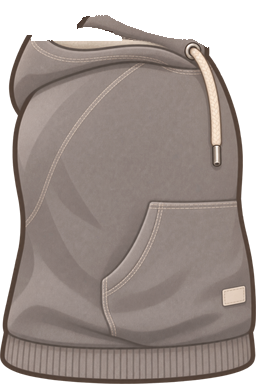
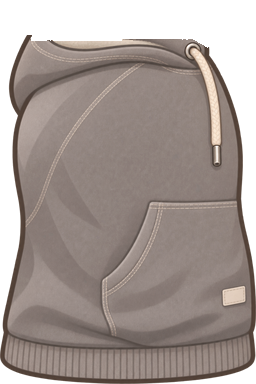
fix: 판정 round5 달리기 엉덩이 색 맞춤을 되돌리고 등 쪽 깎기를 곡선으로, hoodie 후드 꼭대기 뿔을 지운다 [S15P31A207-300]
- round5 회귀: 엉덩이 잇기 조각을 다리 뒤쪽 평균 색으로 맞추자 그늘이 사라져 모든 반바지에 평평한 사각 블록이 생겼다. 원래 텍스처를
  그대로 옮기는 round4 조각으로 되돌린다.
- 등 쪽 깎기 경계를 곧은 세로선 대신 위(높이 -0.2)에서 등 끝으로 물러나 아래(0.5)에서 -0.35까지 들어오는 곡선으로 한다(「ㄱ」자 홈).
- hoodie 달리기 목 「ㅅ」자 획: 달리기 표지 색 렌더로 상의 몸통 텍스처(후드 꼭대기 날개 x 76~200, y 15~40)에서 온 것을 확인하고
  손 마스크(templates/fixes)로 날개를 지운다.

Changed region(s): [[0.2812, 0.0312, 0.6562, 0.125]]

diff --git a/android/core/avatar/tools/outfit-pipeline/outfit_pipeline/hip.py b/android/core/avatar/tools/outfit-pipeline/outfit_pipeline/hip.py
@@ -24,7 +24,6 @@ IMAGE_NAME = "Cloth textured hip connection"
 SOURCE = (88, 160, 168, 208)  # 원래 메시가 쓰던 텍스처 칸(x0, y0, x1, y1)
 TARGET_TOP = 24  # 옮길 칸 위 끝(텍스처 y). 아래 끝은 TARGET_TOP + 48
 HEIGHT = 768
-TONE_BOX = (20, 140, 70, 250)  # 엉덩이 조각 색을 맞출 다리 윗부분 뒤쪽 천 칸(x0, y0, x1, y1)
 V_SHIFT = (SOURCE[1] - TARGET_TOP) / HEIGHT  # 꼭짓점 v에서 뺄 값(160 → 24)
 _TOC_FORMAT = ("u", "s", "f", "c")
 
@@ -125,16 +124,6 @@ def paint_hip(layer: Image.Image) -> Image.Image:
     patch = array[y0:y1, x0:x1].copy()
     if not (patch[..., 3] > 0).any():
         return layer
-    # 엉덩이 잇기 조각은 천 가운데라 다리 윗부분 뒤쪽보다 밝아 밝은 슬래브로 보였다(판정 round4 wide_pants): 다리 윗부분 뒤쪽 천의
-    # 평균 색에 맞춰 옮긴다(무늬·그늘 차이는 그대로)
-    tx0, ty0, tx1, ty1 = TONE_BOX
-    back = array[ty0:ty1, tx0:tx1]
-    cloth = back[..., 3] >= 250
-    opaque = patch[..., 3] >= 250
-    if cloth.sum() > 100 and opaque.sum() > 100:
-        shift = back[cloth][:, :3].astype(float).mean(axis=0) - patch[opaque][:, :3].astype(float).mean(axis=0)
-        patch = patch.copy()
-        patch[..., :3] = (patch[..., :3].astype(float) + shift).round().clip(0, 255).astype(np.uint8)
     array[TARGET_TOP : TARGET_TOP + (y1 - y0), x0:x1] = patch
     return Image.fromarray(array, "RGBA")
 
@@ -272,6 +261,8 @@ def finish_run_leg(layer: Image.Image, body: Image.Image | None) -> Image.Image:
 
 
 CARVE = 0.42  # 엉덩이 잇기 타원의 등 아래 사분면에서 (x/rx)²+(y/ry)²가 이보다 크면 깎는다(화면 블록의 등 아래 모서리)
+CARVE_TOP = -0.2  # 이 높이(-1 위 끝 ~ 1 아래 끝)부터 등 쪽 깎기가 시작된다
+CARVE_FULL = 0.5  # 이 높이 아래에서는 [CARVE_BACK]까지 깎는다
 CARVE_BACK = -0.35  # 타원 가로 위치(-1 등 끝 ~ 1 앞 끝)가 이보다 등 쪽이면 깎는다(화면 블록의 곧은 뒷면·뒤 허리 모서리)
 
 
@@ -289,6 +280,9 @@ def carve_hip(layer: Image.Image) -> Image.Image:
     yy, xx = np.mgrid[0:height, 0 : x1 - x0]
     nx = (xx - (x1 - x0 - 1) / 2) / ((x1 - x0) / 2)
     ny = (yy - (height - 1) / 2) / (height / 2)
-    # 맨 위 띠(ny < -0.5)는 남긴다: 등 쪽 위까지 깎으면 상의 밑단과 다리 사이에 배경 삼각형이 뚫렸다
-    region[((nx < CARVE_BACK) & (ny > -0.5)) | ((nx < 0) & (ny > 0) & (nx * nx + ny * ny > CARVE))] = 0
+    # 깎는 경계는 위로 갈수록 등 끝(-1)으로 부드럽게 물러나는 곡선이다: 맨 위까지 깎으면 상의 밑단과 다리 사이에 배경 삼각형이
+    # 뚫렸고, 곧은 세로선으로 깎다 위에서 멈추면 「ㄱ」자 홈이 생겼다(판정 round4)
+    t = np.clip((ny - CARVE_TOP) / (CARVE_FULL - CARVE_TOP), 0, 1)
+    boundary = -1 + (CARVE_BACK + 1) * (1 - (1 - t) ** 2)
+    region[(nx < boundary) | ((nx < 0) & (ny > 0) & (nx * nx + ny * ny > CARVE))] = 0
     return Image.fromarray(array, "RGBA")

diff --git a/android/core/avatar/tools/outfit-pipeline/outfit_pipeline/run.py b/android/core/avatar/tools/outfit-pipeline/outfit_pipeline/run.py
@@ -143,7 +143,8 @@ FIXES = Path(__file__).resolve().parent.parent / "templates" / "fixes"
 
 def apply_fix_mask(layer: Image.Image, key: str, file_stem: str) -> Image.Image:
     """손으로 정한 지울 칸(`templates/fixes/<key>__<file_stem>.png`, 흰색 = 지움)을 투명하게 한다. 자동 판별로 외곽선과 가르기 어려운
-    생성 잔상만 둔다(판정 round4: high_top 달리기 신발 끈 옆 검은 계단 그림자). 파일이 없으면 그대로."""
+    생성 잔상만 둔다(판정 round4: high_top 달리기 신발 끈 옆 검은 계단 그림자, round5: hoodie 달리기 몸통 후드
+    꼭대기 날개가 목 옆에 「ㅅ」자 뿔로 솟았다). 파일이 없으면 그대로."""
     path = FIXES / f"{key}__{file_stem}.png"
     if not path.is_file():
         return layer
@@ -157,7 +158,7 @@ def finish_run_layer(layer: Image.Image, key: str, part: str, slot: str, leg: Im
     """달리기 상의·하의 레이어 마무리(판정 round3): 상의 몸통·팔은 떨어진 조각을 지우고 몸통은 등 외곽선, 하의 다리는 허리끈 끝을 정리한
     뒤 맨몸 다리 외곽선을 다시 입힌다([leg] = 맨몸 달리기 다리, outfit_pipeline.hip.finish_run_leg)."""
     if part == "TOP" and slot in ("run_body", "run_arm"):
-        layer, _ = drop_loose_pieces(layer)
+        layer, _ = drop_loose_pieces(apply_fix_mask(layer, key, f"female_{slot}"))
         if slot == "run_body":
             layer, _ = outline_back(layer, key)
             if key in BACK_KEYS:

diff --git a/android/core/avatar/OUTFIT_SPEC.md b/android/core/avatar/OUTFIT_SPEC.md
@@ -55,8 +55,8 @@ riv 네 파일(`res/raw`, 승인본 SHA 고정, 읽기만)의 아트보드는 80
 | 민소매 몸통 옆 맨살 (판정 round4) | 표지 색 렌더(텍셀마다 (층, x, y)를 색으로 그려 렌더 픽셀의 출처를 읽음)로 singlet 밑단 옆 짧은 짙은 획과 밝은 점이 맨몸 아틀라스 x 100~124·376~392, y 256~295의 몸통 옆 외곽선과 그 안쪽 맨살 띠, 밑단과 하의 허리 사이 맨살임을 확인했다. singlet 서기 레이어는 행마다(y 200~295) 상의 옆 가장자리 바깥의 맨살(몸통 옆 외곽선 앞까지 6px 이하)을 상의 천 색으로, 밑단 아래 하의 허리(y 296)까지의 맨몸(빈 곳에서 4px 안의 몸통 옆 외곽선 제외)을 그 옆 칸 밝은 천 가운데값으로 덮는다(`stand_fix.close_side_skin`, `stand-fix`) |
 | 반팔·민소매 몸통 옆 외곽선 (판정 round3) | 반팔·민소매(`maleTopSurface` 1) 서기 레이어는 소매 끝 아래 몸통 옆(y 185~301) 행마다 바깥에서 처음 만나는 상의 가장자리 6px 안에서, 안쪽 짙은 옆 외곽선(밝기 110 미만)보다 바깥에 박힌 밝은 천 점(외곽선보다 60 넘게 밝음)이 없다. 체형 100에서 몸통 옆이 늘면 짙은 외곽선 사이 흰 점이 사다리 획으로 보였다(base s100 겨드랑이 아래). `stand-fix`가 그 외곽선 색으로 칠한다(`stand_fix.solid_side_outline`) |
 | 남자 서기 긴소매 이음매 (판정 round3) | 남자 서기 riv의 긴소매 메시(Image 「Long sleeve wardrobe top」)는 팔 띠와 몸통 띠가 이음매 열에 같은 (u, v)·무게의 꼭짓점을 따로 둔다. 겨드랑이 아래(v 0.26~0.35) 몸통 쪽 꼭짓점이 0.1~1.2 단위 안쪽에 있어(바탕 자세와 체형 애니메이션 x 키) 소매와 몸통 사이로 배경이 가는 세로 줄로 비쳤다. 앱은 읽은 riv 바이트에서 몸통 쪽 값(float32 100개)을 짝인 팔 쪽 값으로 바꾼다(`RivSleeveSeam`, 파일은 승인본 그대로, 표는 `outfit_pipeline/seam.py`의 `copy_pairs`). 반팔·민소매 표면 메시(「Existing wardrobe top」)는 몸통 띠 바깥 끝이 팔 띠 안쪽 끝과 바탕 자세에서 0.5~1 단위 겹치는데, 체형 x 키(medium·fuller)에서 오른쪽 아래 행의 겹침이 0 아래로 줄어 base·singlet 남자 체형 100 겨드랑이 아래에 가는 틈이 생겼다. 겹침이 바탕보다 줄어든 키 24개만 팔 쪽 키 + 바탕 겹침으로 바꾼다(`OVERLAP_TARGETS`, `seam.overlap_patch`). 판정 렌더는 Rive 원본에서 같은 값을 바꾼다(`close_seam_rml`, `keep_overlap_rml`) |
-| 달리기 엉덩이 잇기·다리 실루엣 (판정 round1~3 C) | 달리기 riv의 Image 「Cloth textured hip connection」(타원 메시)은 run_leg 텍스처 가운데 조각(x 88~168, y 160~208)을 써서 엉덩이 뒷면에 외곽선이 없었고 같은 칸을 앞 다리 메시도 허벅지에 쓴다. 앱은 읽은 riv 바이트에서 그 꼭짓점 v만 136/768만큼 위로 옮겨(`RivHipConnection`, 파일은 승인본 그대로) 다리 메시가 화면에 쓰지 않는 칸(y 24~72)을 쓰게 하고, 판정 렌더는 Rive 원본의 같은 꼭짓점을 옮긴다(`retarget_rml`). 다리 메시는 맨몸 다리 실루엣 모양이라(16x16 칸과 픽셀 좌표 부호 렌더로 실측: 텍스처 행마다 화면 뒷면 경계가 맨몸 다리 왼쪽 끝과 같다) 하의가 맨몸 다리보다 넓은 곳은 화면에 나오지 않는다. 그래서 하의·맨몸 달리기 다리 레이어(`hip.finish_run_leg`)는 (1) 엉덩이 잇기 칸에 원래 조각을 다리 윗부분 뒤쪽 천(x 20~69, y 140~249) 평균 색에 맞춰 옮기고(밝은 슬래브), 타원의 등 쪽(가로 위치 -0.35보다 등 쪽, 맨 위 띠 제외)과 등 아래 사분면 바깥((x/rx)²+(y/ry)² > 0.42)을 투명하게 깎으며 외곽선은 그리지 않고(옷 안쪽 호·짙은 쐐기로 떠 보였다, round4), 다리 윗부분(y 90~279)에서 맨몸이 하의 뒤로 비치는 곳은 하의 색으로 덮고(leggings 회색 덧조각), (2) 다리 텍스처 y 170~265의 뒷면을 x 2→12 사분 타원 곡선으로 깎아(곧은 뒷면이 y 264에서 10px 꺾이던 모서리) 새 가장자리 5px을 맨몸 외곽선 색으로 칠하고, (3) 하의는 맨몸 다리 외곽선(실루엣 가장자리 7px 안 짙은 픽셀) 위 하의 픽셀을 그 외곽선 색으로 바꾼다(wide·jogger 외곽선, leggings 무릎 비침). 16번 구멍 검사는 엉덩이 잇기 칸을, 17번 달리기 다리 외곽선 기준은 그 칸과 깎은 뒷면(y 170~265, x < 24)을 뺀다 |
-| 달리기 상의·하의 마무리 (판정 round3) | 달리기 상의 몸통·팔 레이어에는 본체와 떨어진 1000px 미만 덩어리가 없다(맨몸 팔 외곽선 조각이 singlet 어깨 뒤 곡선, hoodie 목 곡선으로 떠 보였다). hoodie 달리기 몸통은 행마다 등 쪽 첫 4px 가운데 밝은 곳을 짙은 갈색으로 칠한다(등판 외곽선이 옅었다. 달리기 몸통 메시는 옷 가장자리까지 보인다). jogger 달리기 다리는 허리끈 끝(x 0~29, y 95~154)의 끈·금속 픽셀을 이웃 천 색으로 바꾼다(엉덩이 뒤 짙은 점). `outfit_pipeline/run.py`. hoodie는 달리기 몸통 위 45행의 가는 끝(후드 꼭대기 「ㅅ」자 획)을 지우고 달리기 팔 가장자리 4px에 외곽선을 칠하며 그 안쪽 14px의 밝은 줄을 천 가운데값 쪽으로 누른다. 자동 판별로 외곽선과 가르기 어려운 생성 잔상은 손으로 정한 마스크(`templates/fixes/<key>__<파일>.png`, 흰색 = 지움)로 지운다(high_top 달리기 신발 끈 옆 검은 계단) |
+| 달리기 엉덩이 잇기·다리 실루엣 (판정 round1~3 C) | 달리기 riv의 Image 「Cloth textured hip connection」(타원 메시)은 run_leg 텍스처 가운데 조각(x 88~168, y 160~208)을 써서 엉덩이 뒷면에 외곽선이 없었고 같은 칸을 앞 다리 메시도 허벅지에 쓴다. 앱은 읽은 riv 바이트에서 그 꼭짓점 v만 136/768만큼 위로 옮겨(`RivHipConnection`, 파일은 승인본 그대로) 다리 메시가 화면에 쓰지 않는 칸(y 24~72)을 쓰게 하고, 판정 렌더는 Rive 원본의 같은 꼭짓점을 옮긴다(`retarget_rml`). 다리 메시는 맨몸 다리 실루엣 모양이라(16x16 칸과 픽셀 좌표 부호 렌더로 실측: 텍스처 행마다 화면 뒷면 경계가 맨몸 다리 왼쪽 끝과 같다) 하의가 맨몸 다리보다 넓은 곳은 화면에 나오지 않는다. 그래서 하의·맨몸 달리기 다리 레이어(`hip.finish_run_leg`)는 (1) 엉덩이 잇기 칸에 원래 조각을 그대로 옮기고(평균 색으로 맞추면 그늘이 사라져 모든 반바지에 평평한 사각 블록이 생겼다, round5), 타원의 등 쪽(높이 -0.2부터 0.5까지 등 끝에서 가로 위치 -0.35로 부드럽게 들어오는 곡선보다 등 쪽, 곧은 세로선으로 깎으면 「ㄱ」자 홈이 생겼다)과 등 아래 사분면 바깥((x/rx)²+(y/ry)² > 0.42)을 투명하게 깎으며 외곽선은 그리지 않고(옷 안쪽 호·짙은 쐐기로 떠 보였다, round4), 다리 윗부분(y 90~279)에서 맨몸이 하의 뒤로 비치는 곳은 하의 색으로 덮고(leggings 회색 덧조각), (2) 다리 텍스처 y 170~265의 뒷면을 x 2→12 사분 타원 곡선으로 깎아(곧은 뒷면이 y 264에서 10px 꺾이던 모서리) 새 가장자리 5px을 맨몸 외곽선 색으로 칠하고, (3) 하의는 맨몸 다리 외곽선(실루엣 가장자리 7px 안 짙은 픽셀) 위 하의 픽셀을 그 외곽선 색으로 바꾼다(wide·jogger 외곽선, leggings 무릎 비침). 16번 구멍 검사는 엉덩이 잇기 칸을, 17번 달리기 다리 외곽선 기준은 그 칸과 깎은 뒷면(y 170~265, x < 24)을 뺀다 |
+| 달리기 상의·하의 마무리 (판정 round3) | 달리기 상의 몸통·팔 레이어에는 본체와 떨어진 1000px 미만 덩어리가 없다(맨몸 팔 외곽선 조각이 singlet 어깨 뒤 곡선, hoodie 목 곡선으로 떠 보였다). hoodie 달리기 몸통은 행마다 등 쪽 첫 4px 가운데 밝은 곳을 짙은 갈색으로 칠한다(등판 외곽선이 옅었다. 달리기 몸통 메시는 옷 가장자리까지 보인다). jogger 달리기 다리는 허리끈 끝(x 0~29, y 95~154)의 끈·금속 픽셀을 이웃 천 색으로 바꾼다(엉덩이 뒤 짙은 점). `outfit_pipeline/run.py`. hoodie는 달리기 몸통 위 45행의 가는 끝(후드 꼭대기 「ㅅ」자 획)을 지우고 달리기 팔 가장자리 4px에 외곽선을 칠하며 그 안쪽 14px의 밝은 줄을 천 가운데값 쪽으로 누른다. 자동 판별로 외곽선과 가르기 어려운 생성 잔상은 손으로 정한 마스크(`templates/fixes/<key>__<파일>.png`, 흰색 = 지움)로 지운다(high_top 달리기 신발 끈 옆 검은 계단, hoodie 달리기 몸통 후드 꼭대기 날개: 목 옆 「ㅅ」자 뿔, 표지 색 렌더로 그 획이 상의 몸통 텍스처 x 76~200·y 15~40에서 온 것을 확인) |
 | 하의 길이 | 달리기 다리(`run_leg`)의 하의는 기본 반바지 밑단(y 약 250)보다 짧게 끝나지 않는다(맨몸 허벅지의 이음선이 그 위에 있다) |
 | 품질 | 코랄 집업 후드(`top_cherry_vest`) 기준: 외곽선 2px(옷 기본색의 어두운 톤, 검정 아님), 음영 3단, 주름은 관절·지퍼·밑단, 광택·질감 무늬 없음 |
 
